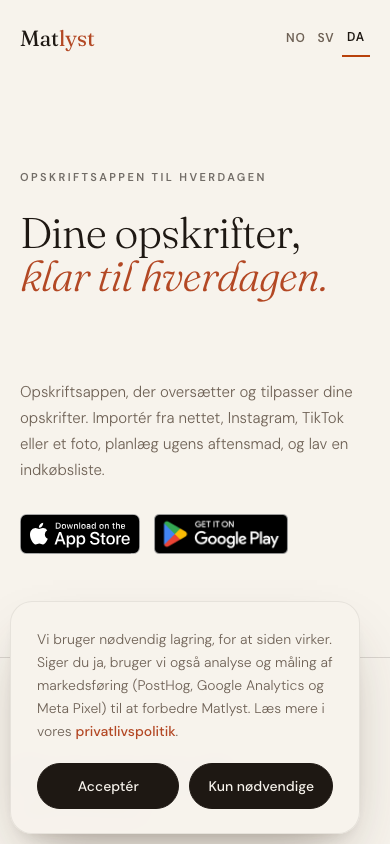
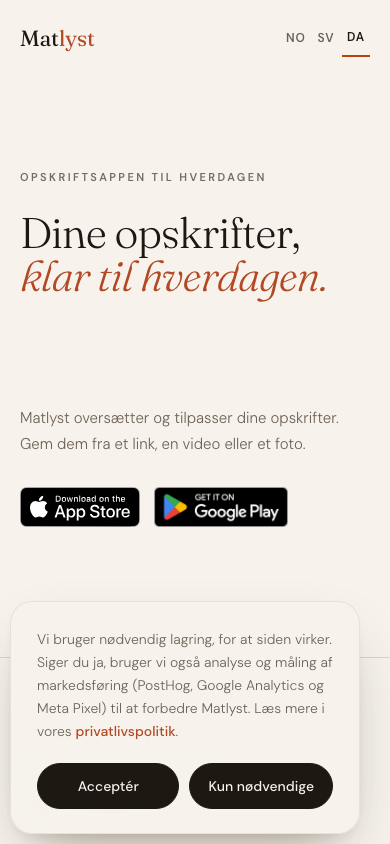
fix(landing): granskning av llms.txt og forsidene
- nb-forsiden: grammatisk importsetning, «send ukas ingredienser til
  handlelista» i stedet for «skrive seg selv», ny posisjonering i
  meta/og/twitter/JSON-LD, «oversetter» bare én gang i ingressen
- sv/da-forsiden: ingressen begynner med «Matlyst översätter/oversætter»
  og har kortere importsetning
- /da/middagsforslag og /sv/vad-ska-jag-laga: spørsmål gratis, endringer Pro
- llms.txt: lenker som [navn](url): merknad, bestemt form, «når kilden er
  kjent», gratis/Pro presisert
- produktpaastander.md: belegg for Pro-regelen (skjema.ts:390-391) og
  handlelista (ukemeny.tsx:593-599)
- Tester for alt over

Claude-Session: https://claude.ai/code/session_014fDBte4NAnwCmAoPEN8Ebz

Changed region(s): [[0.0308, 0.4621, 0.8923, 0.6777]]

diff --git a/index.html b/index.html
@@ -5,7 +5,7 @@
 <meta name="viewport" content="width=device-width, initial-scale=1.0">
 <meta name="facebook-domain-verification" content="n8gdqjhrbrimaux8ejsfmkyzo7zwhw" />
 <title>Matlyst — Oppskrifter du faktisk lager</title>
-<meta name="description" content="Oppskriftsappen som oversetter og tilpasser oppskriftene dine. Importer fra en lenke, en video eller et bilde, også håndskrevne, planlegg uka og la handlelista skrive seg selv. Ingen reklame, ingen salg av data. Gratis å prøve på App Store og Google Play.">
+<meta name="description" content="Oppskriftsappen som oversetter og tilpasser oppskriftene dine. Importer fra en lenke, en video eller et bilde, også av håndskrevne oppskrifter. Planlegg uka og send ukas ingredienser til handlelista. Ingen reklame, ingen salg av data. Gratis å prøve på App Store og Google Play.">
 <link rel="canonical" href="https://matlyst-app.no/">
 <link rel="alternate" hreflang="nb-NO" href="https://matlyst-app.no/">
 <link rel="alternate" hreflang="sv-SE" href="https://matlyst-app.no/sv/">
@@ -15,7 +15,7 @@
 <meta name="theme-color" content="#F7F3EC">
 <meta name="apple-itunes-app" content="app-id=6762563515">
 <meta property="og:title" content="Matlyst — Oppskrifter du faktisk lager">
-<meta property="og:description" content="Oppskriftsappen som oversetter og tilpasser oppskriftene dine. Importer fra en lenke, en video eller et bilde av en håndskrevet oppskrift. Planlegg uka og la handlelista skrive seg selv. Gratis å prøve.">
+<meta property="og:description" content="Oppskriftsappen som oversetter og tilpasser oppskriftene dine. Importer fra en lenke, en video eller et bilde, også av håndskrevne oppskrifter. Planlegg uka og send ukas ingredienser til handlelista. Gratis å prøve.">
 <meta property="og:image" content="https://matlyst-app.no/images/og.jpg">
 <meta property="og:url" content="https://matlyst-app.no/">
 <meta property="og:type" content="website">
@@ -23,7 +23,7 @@
 <meta property="og:locale" content="nb_NO">
 <meta name="twitter:card" content="summary_large_image">
 <meta name="twitter:title" content="Matlyst — Oppskrifter du faktisk lager">
-<meta name="twitter:description" content="Oppskriftsappen som oversetter og tilpasser oppskriftene dine. Importer fra en lenke, en video eller et bilde av en håndskrevet oppskrift. Planlegg uka og la handlelista skrive seg selv.">
+<meta name="twitter:description" content="Oppskriftsappen som oversetter og tilpasser oppskriftene dine. Importer fra en lenke, en video eller et bilde, også av håndskrevne oppskrifter. Planlegg uka og send ukas ingredienser til handlelista.">
 <meta name="twitter:image" content="https://matlyst-app.no/images/og.jpg">
 <link rel="icon" type="image/png" href="images/icon.png">
 <script type="application/ld+json">
@@ -35,7 +35,7 @@
   "applicationCategory": "LifestyleApplication",
   "url": "https://matlyst-app.no/",
   "downloadUrl": ["https://apps.apple.com/no/app/matlyst/id6762563515", "https://play.google.com/store/apps/details?id=app.matlyst"],
-  "description": "Importer oppskrifter fra en lenke, en video eller et bilde — også håndskrevne oppskrifter. Planlegg uken og la handlelista skrive seg selv.",
+  "description": "Oppskriftsappen som oversetter og tilpasser oppskriftene dine. Importer fra en lenke, en video eller et bilde, også av håndskrevne oppskrifter. Planlegg uka og send ukas ingredienser til handlelista.",
   "inLanguage": "nb-NO",
   "offers": { "@type": "Offer", "price": "0", "priceCurrency": "NOK" },
   "aggregateRating": { "@type": "AggregateRating", "ratingValue": "5.0", "ratingCount": "12", "bestRating": "5" },
@@ -65,7 +65,7 @@
     <h1 class="disp"><span class="a">Oppskriftene</span><br><span class="a">dine, <span class="it">samlet</span>.</span></h1>
   </div>
   <div class="hero-side">
-    <p class="lead">Oppskriftsappen som oversetter og tilpasser oppskriftene dine. Importer fra en lenke, en video eller et bilde, også av en håndskrevet oppskrift. Matlyst henter oppskriften, oversetter den til norsk og lar handlelista skrive seg selv.</p>
+    <p class="lead">Oppskriftsappen som oversetter og tilpasser oppskriftene dine. Importer fra en lenke, en video eller et bilde, også av håndskrevne oppskrifter. Matlyst henter oppskriften og gjør den klar på norsk. Planlegg uka og send ukas ingredienser til handlelista.</p>
     <div class="hero-actions">
       <div class="store-badges">
         <a class="btn-store" href="https://apps.apple.com/no/app/matlyst/id6762563515" target="_blank" rel="noopener">

diff --git a/da/middagsforslag/index.html b/da/middagsforslag/index.html
@@ -39,7 +39,7 @@
     </span>
   </div>
 </nav><main id="hovedinnhold"><header class="locale-page-hero"><p class="eyebrow">Matlyst</p><h1 class="disp">Forslag til aftensmad fra dine egne opskrifter</h1><p class="lead">Få middagsforslag fra egne opskrifter, og brug Spørg Matlyst til at tilpasse en ret.</p></header>
-<section class="prose locale-prose"><h2>Forslag fra din egen samling</h2><p>På Hjem vises forslag fra din opskriftssamling. Spisekammeret kan hjælpe med at fremhæve retter, der passer til det, du har. Se også <a href="/da/nem-mad/">nem mad</a>.</p><h2>Godt at vide</h2><p>Spørg Matlyst kræver Matlyst Pro.</p></section>
+<section class="prose locale-prose"><h2>Forslag fra din egen samling</h2><p>På Hjem vises forslag fra din opskriftssamling. Spisekammeret kan hjælpe med at fremhæve retter, der passer til det, du har. Se også <a href="/da/nem-mad/">nem mad</a>.</p><h2>Godt at vide</h2><p>Det er gratis at stille spørgsmål om en opskrift. Når Spørg Matlyst skal lave eller ændre opskrifter, kræver det Matlyst Pro.</p></section>
 <section class="faq"><h2>Ofte stillede spørgsmål</h2><details open><summary>Hvor kommer forslagene fra?</summary><p>Fra opskrifter, du har gemt, og oplysninger i Spisekammeret.</p></details></section>
 <section class="page-cta"><h2 class="disp">Få styr på hverdagen med Matlyst</h2><div class="store-badges">
 <a class="btn-store" href="https://apps.apple.com/dk/app/matlyst/id6762563515" rel="noopener"><img src="/images/appstore-badge.svg" alt="Download on the App Store"></a>

diff --git a/sv/vad-ska-jag-laga/index.html b/sv/vad-ska-jag-laga/index.html
@@ -39,7 +39,7 @@
     </span>
   </div>
 </nav><main id="hovedinnhold"><header class="locale-page-hero"><p class="eyebrow">Matlyst</p><h1 class="disp">Middagsförslag från dina egna recept</h1><p class="lead">Få middagsförslag från egna recept och fråga Matlyst när du vill anpassa en rätt.</p></header>
-<section class="prose locale-prose"><h2>Vad ska jag laga till middag?</h2><p>På fliken Hem visas förslag från din egen receptsamling. Skafferi kan hjälpa till att lyfta fram rätter som passar det du har.</p><h2>Bra att veta</h2><p>Fråga Matlyst kräver Matlyst Pro.</p></section>
+<section class="prose locale-prose"><h2>Vad ska jag laga till middag?</h2><p>På fliken Hem visas förslag från din egen receptsamling. Skafferi kan hjälpa till att lyfta fram rätter som passar det du har.</p><h2>Bra att veta</h2><p>Det är gratis att ställa frågor om ett recept. När Fråga Matlyst ska skapa eller ändra recept krävs Matlyst Pro.</p></section>
 <section class="faq"><h2>Vanliga frågor</h2><details open><summary>Varifrån kommer förslagen?</summary><p>Från recepten du har sparat och de uppgifter appen har om Skafferi.</p></details></section>
 <section class="page-cta"><h2 class="disp">Få ordning på vardagsmaten med Matlyst</h2><div class="store-badges">
 <a class="btn-store" href="https://apps.apple.com/se/app/matlyst/id6762563515" rel="noopener"><img src="/images/appstore-badge.svg" alt="Download on the App Store"></a>

diff --git a/da/index.html b/da/index.html
@@ -45,7 +45,7 @@
 <header class="hero locale-home-hero" data-section="hero">
   <div><p class="eyebrow hero-eyebrow">Opskriftsappen til hverdagen</p>
   <h1 class="disp">Dine opskrifter,<br><span class="it">klar til hverdagen.</span></h1></div>
-  <div class="hero-side"><p class="lead">Opskriftsappen, der oversætter og tilpasser dine opskrifter. Importér fra nettet, Instagram, TikTok eller et foto, planlæg ugens aftensmad, og lav en indkøbsliste.</p><div class="store-badges">
+  <div class="hero-side"><p class="lead">Matlyst oversætter og tilpasser dine opskrifter. Gem dem fra et link, en video eller et foto.</p><div class="store-badges">
 <a class="btn-store" href="https://apps.apple.com/dk/app/matlyst/id6762563515" rel="noopener"><img src="/images/appstore-badge.svg" alt="Download on the App Store"></a>
 <a class="btn-store" href="https://play.google.com/store/apps/details?id=app.matlyst&hl=da&gl=DK" rel="noopener"><img src="/images/googleplay-badge-en.png" alt="Get it on Google Play"></a>
 </div></div>

diff --git a/sv/index.html b/sv/index.html
@@ -45,7 +45,7 @@
 <header class="hero locale-home-hero" data-section="hero">
   <div><p class="eyebrow hero-eyebrow">Receptappen för vardagen</p>
   <h1 class="disp">Recepten du sparar,<br><span class="it">klara för vardagen.</span></h1></div>
-  <div class="hero-side"><p class="lead">Receptappen som översätter och anpassar dina recept. Importera från webben, Instagram, TikTok eller ett foto, planera veckans middagar och gör en inköpslista.</p><div class="store-badges">
+  <div class="hero-side"><p class="lead">Matlyst översätter och anpassar dina recept. Spara dem från en länk, en video eller ett foto.</p><div class="store-badges">
 <a class="btn-store" href="https://apps.apple.com/se/app/matlyst/id6762563515" rel="noopener"><img src="/images/appstore-badge.svg" alt="Download on the App Store"></a>
 <a class="btn-store" href="https://play.google.com/store/apps/details?id=app.matlyst&hl=sv&gl=SE" rel="noopener"><img src="/images/googleplay-badge-en.png" alt="Get it on Google Play"></a>
 </div></div>

diff --git a/qa/sv-da/produktpaastander.md b/qa/sv-da/produktpaastander.md
@@ -9,7 +9,7 @@ Kontrollert mot appens `origin/master` `2613d17d3173676a0eb6229a16b3e534a670a946
 | /sv/inkopslista/ | När en vara bockas av kan den flyttas till Skafferi. Hushållsdelning kräver Matlyst Pro. | `app/(tabs)/grocery.tsx:285-367`, `hooks/useGrocery.ts` |
 | /sv/handskrivna-recept/ | Fotoimport kräver Matlyst Pro. Du kan skriva in var receptet kommer ifrån, till exempel ”Mormors receptbok”. | `lib/importEngine.ts:201-229`, `app/(tabs)/legg-til.tsx` |
 | /sv/recept-pa-ingredienser/ | Förslagen är ett hjälpmedel. Kontrollera alltid mängderna, hållbarheten och att varorna fortfarande går att äta. | `hooks/useRecipeSearch.ts:53-94`, `hooks/usePantryRecipes.ts` |
-| /sv/vad-ska-jag-laga/ | Fråga Matlyst kräver Matlyst Pro. | `hooks/useRecommendations.ts:76-131`, `hooks/useSporMatlyst.ts:118-221` |
+| /sv/vad-ska-jag-laga/ | Det är gratis att ställa frågor om ett recept. När Fråga Matlyst ska skapa eller ändra recept krävs Matlyst Pro. | `hooks/useRecommendations.ts:76-131`, `hooks/useSporMatlyst.ts:118-221`, `supabase/functions/_shared/sporMatlyst/skjema.ts:390-391` (gratis: bare spørsmål i en oppskrift) |
 | /sv/veckomeny-app/ | Veckomenyn och den vanliga inköpslistan kan användas utan Pro. Hushållsdelning kräver Pro. | `app/(tabs)/ukemeny.tsx:371-433`, `app/recipe-picker.tsx` |
 | /sv/byt-fran-paprika/ | Matlyst har ingen koppling till Paprika och garanterar inte att alla fält kan flyttas automatiskt. | `components/RecipeFileImport.tsx`, `lib/importEngine.ts:248-270` |
 | /sv/receptbok-app/ | Du bestämmer över innehållet. Källan visas på importerade recept när den finns. | `hooks/useRecipes.ts:169-199`, `hooks/useRecipeSearch.ts:53-94` |
@@ -24,7 +24,7 @@ Kontrollert mot appens `origin/master` `2613d17d3173676a0eb6229a16b3e534a670a946
 | /da/indkoebsliste-app/ | Når en vare krydses af, kan den flyttes til Spisekammeret. Deling i en husstand kræver Matlyst Pro. | `app/(tabs)/grocery.tsx:285-367`, `hooks/useGrocery.ts` |
 | /da/haandskrevne-opskrifter/ | Fotoimport kræver Matlyst Pro. Du kan selv notere, hvor opskriften stammer fra. | `lib/importEngine.ts:201-229`, `app/(tabs)/legg-til.tsx` |
 | /da/opskrifter-ud-fra-ingredienser/ | Forslagene er kun vejledende. Tjek mængder, holdbarhed, og om varerne stadig kan bruges. | `hooks/useRecipeSearch.ts:53-94`, `hooks/usePantryRecipes.ts` |
-| /da/middagsforslag/ | Spørg Matlyst kræver Matlyst Pro. | `hooks/useRecommendations.ts:76-131`, `hooks/useSporMatlyst.ts:118-221` |
+| /da/middagsforslag/ | Det er gratis at stille spørgsmål om en opskrift. Når Spørg Matlyst skal lave eller ændre opskrifter, kræver det Matlyst Pro. | `hooks/useRecommendations.ts:76-131`, `hooks/useSporMatlyst.ts:118-221`, `supabase/functions/_shared/sporMatlyst/skjema.ts:390-391` (gratis: bare spørsmål i en oppskrift) |
 | /da/madplan-app/ | Deling af Madplan og Indkøbsliste i en husstand kræver Matlyst Pro. | `app/(tabs)/ukemeny.tsx:371-433`, `app/recipe-picker.tsx` |
 | /da/skift-fra-paprika/ | Matlyst har ingen tilknytning til Paprika og garanterer ikke, at alle felter kan flyttes automatisk. | `components/RecipeFileImport.tsx`, `lib/importEngine.ts:248-270` |
 | /da/opskrifts-app/ | Du bestemmer over indholdet. Kilden vises på importerede opskrifter, når den findes. | `hooks/useRecipes.ts:169-199`, `hooks/useRecipeSearch.ts:53-94` |
@@ -55,11 +55,12 @@ Kontrollert mot appens `origin/master` `1692bc59`, lest 2026-10-05 (bare lesing)
 | Metriske mål som standard; kan beholde amerikanske mål | `supabase/migrations/20260419000000_unit_system_and_delete_account.sql:3` (default `metric`); `supabase/functions/_shared/sprak.ts:176-177, 200-201, 224-225`; `app/innstillinger.tsx:141` |
 | Spør Matlyst / Spørg Matlyst / Fråga Matlyst | `lib/sprak/tekster/nb.ts:1187`, `da.ts:435`, `sv.ts:435` |
 | Tilpassing: bytte, fjerne, legge til ingredienser og endre porsjoner | `supabase/functions/_shared/sporMatlyst/prompt.ts:27-28` (master); forutsetter #536: `prompt.ts:109` på PR-grenen |
-| Endringer med Spør Matlyst krever Pro; gratis kan bare stille spørsmål i en oppskrift | `supabase/functions/spor-matlyst/index.ts:89-92`; `supabase/functions/_shared/sporMatlyst/skjema.ts:390-391` |
+| Spørsmål om en oppskrift er gratis; å lage eller endre oppskrifter med Spør Matlyst krever Pro (/sv/vad-ska-jag-laga/, /da/middagsforslag/, llms.txt) | `supabase/functions/spor-matlyst/index.ts:89-92`; `supabase/functions/_shared/sporMatlyst/skjema.ts:390-391` |
 | Spør/Spørg/Fråga Matlyst svarer på brukerens språk (nb, da, sv) — forutsetter #536 | PR-grenen: `hooks/useSporMatlyst.ts:54,122` (sender `sprak`), `supabase/functions/_shared/sporMatlyst/skjema.ts:235` (godtar bare nb/da/sv), `supabase/functions/spor-matlyst/index.ts:89,122` (`byggSystemtekst(f.sprak)`), `supabase/functions/_shared/sporMatlyst/prompt.ts:116-126` («All user-visible text … must be in ${lokal.navn}»). På master er funksjonen nb-only (`skjema.ts:8`) |
 | Madplan (da), Veckomeny (sv), Indkøbsliste/Inköpslista og Spisekammer/Skafferi — forutsetter #536 | PR-grenen: `lib/sprak/tekster/da.ts:94,201` (`Madplan`), `da.ts:109,203` (`Spisekammer`, `Indkøbsliste`); `sv.ts:94,109,203` (`Veckomeny`, `Skafferi`, `Inköpslista`). På master heter den danske funksjonen `Ugemenu` |
 | Håndskrevne oppskrifter (nb-forsiden, /sv/handskrivna-recept/, /da/haandskrevne-opskrifter/) | Generell bildeavlesning, ikke nevnt spesifikt: `supabase/functions/import-recipe/index.ts:1318` («Analyser bildet og ekstraher oppskriften som JSON», samme linje på master og PR-grenen); `lib/sprak/tekster/nb.ts:1209` («Skann en oppskrift fra kokebok, blad eller skjerm»). Verken prompt eller UI nevner håndskrift |
 | Kokemodus holder skjermen våken | `hooks/useCookSession.ts:137`; `lib/keepAwake.ts` |
+| Planlegg uka og send ukas ingredienser til handlelista (nb-forsiden; «la handlelista skrive seg selv» på /ukemeny/) | `app/(tabs)/ukemeny.tsx:593-599` (knappen `handleAddWeekToGrocery`, `ukemeny.leggUkeIHandleliste`): ett trykk legger ukas ingredienser i handlelista. Handlelisten fylles ikke uten at brukeren trykker |
 | Fem gratis importer i måneden | `constants/limits.ts:5` (`FREE_IMPORT_LIMIT = 5`) |
 | Bildeimport krever Pro | `app/(tabs)/legg-til.tsx:879` (`kilde === 'bilde' && fotoGate === 'låst'`) |
 | Ingen reklame, ingen annonsenettverk | `package.json` har ingen annonse-SDK (bare RevenueCat, PostHog, Sentry og Expo) |
